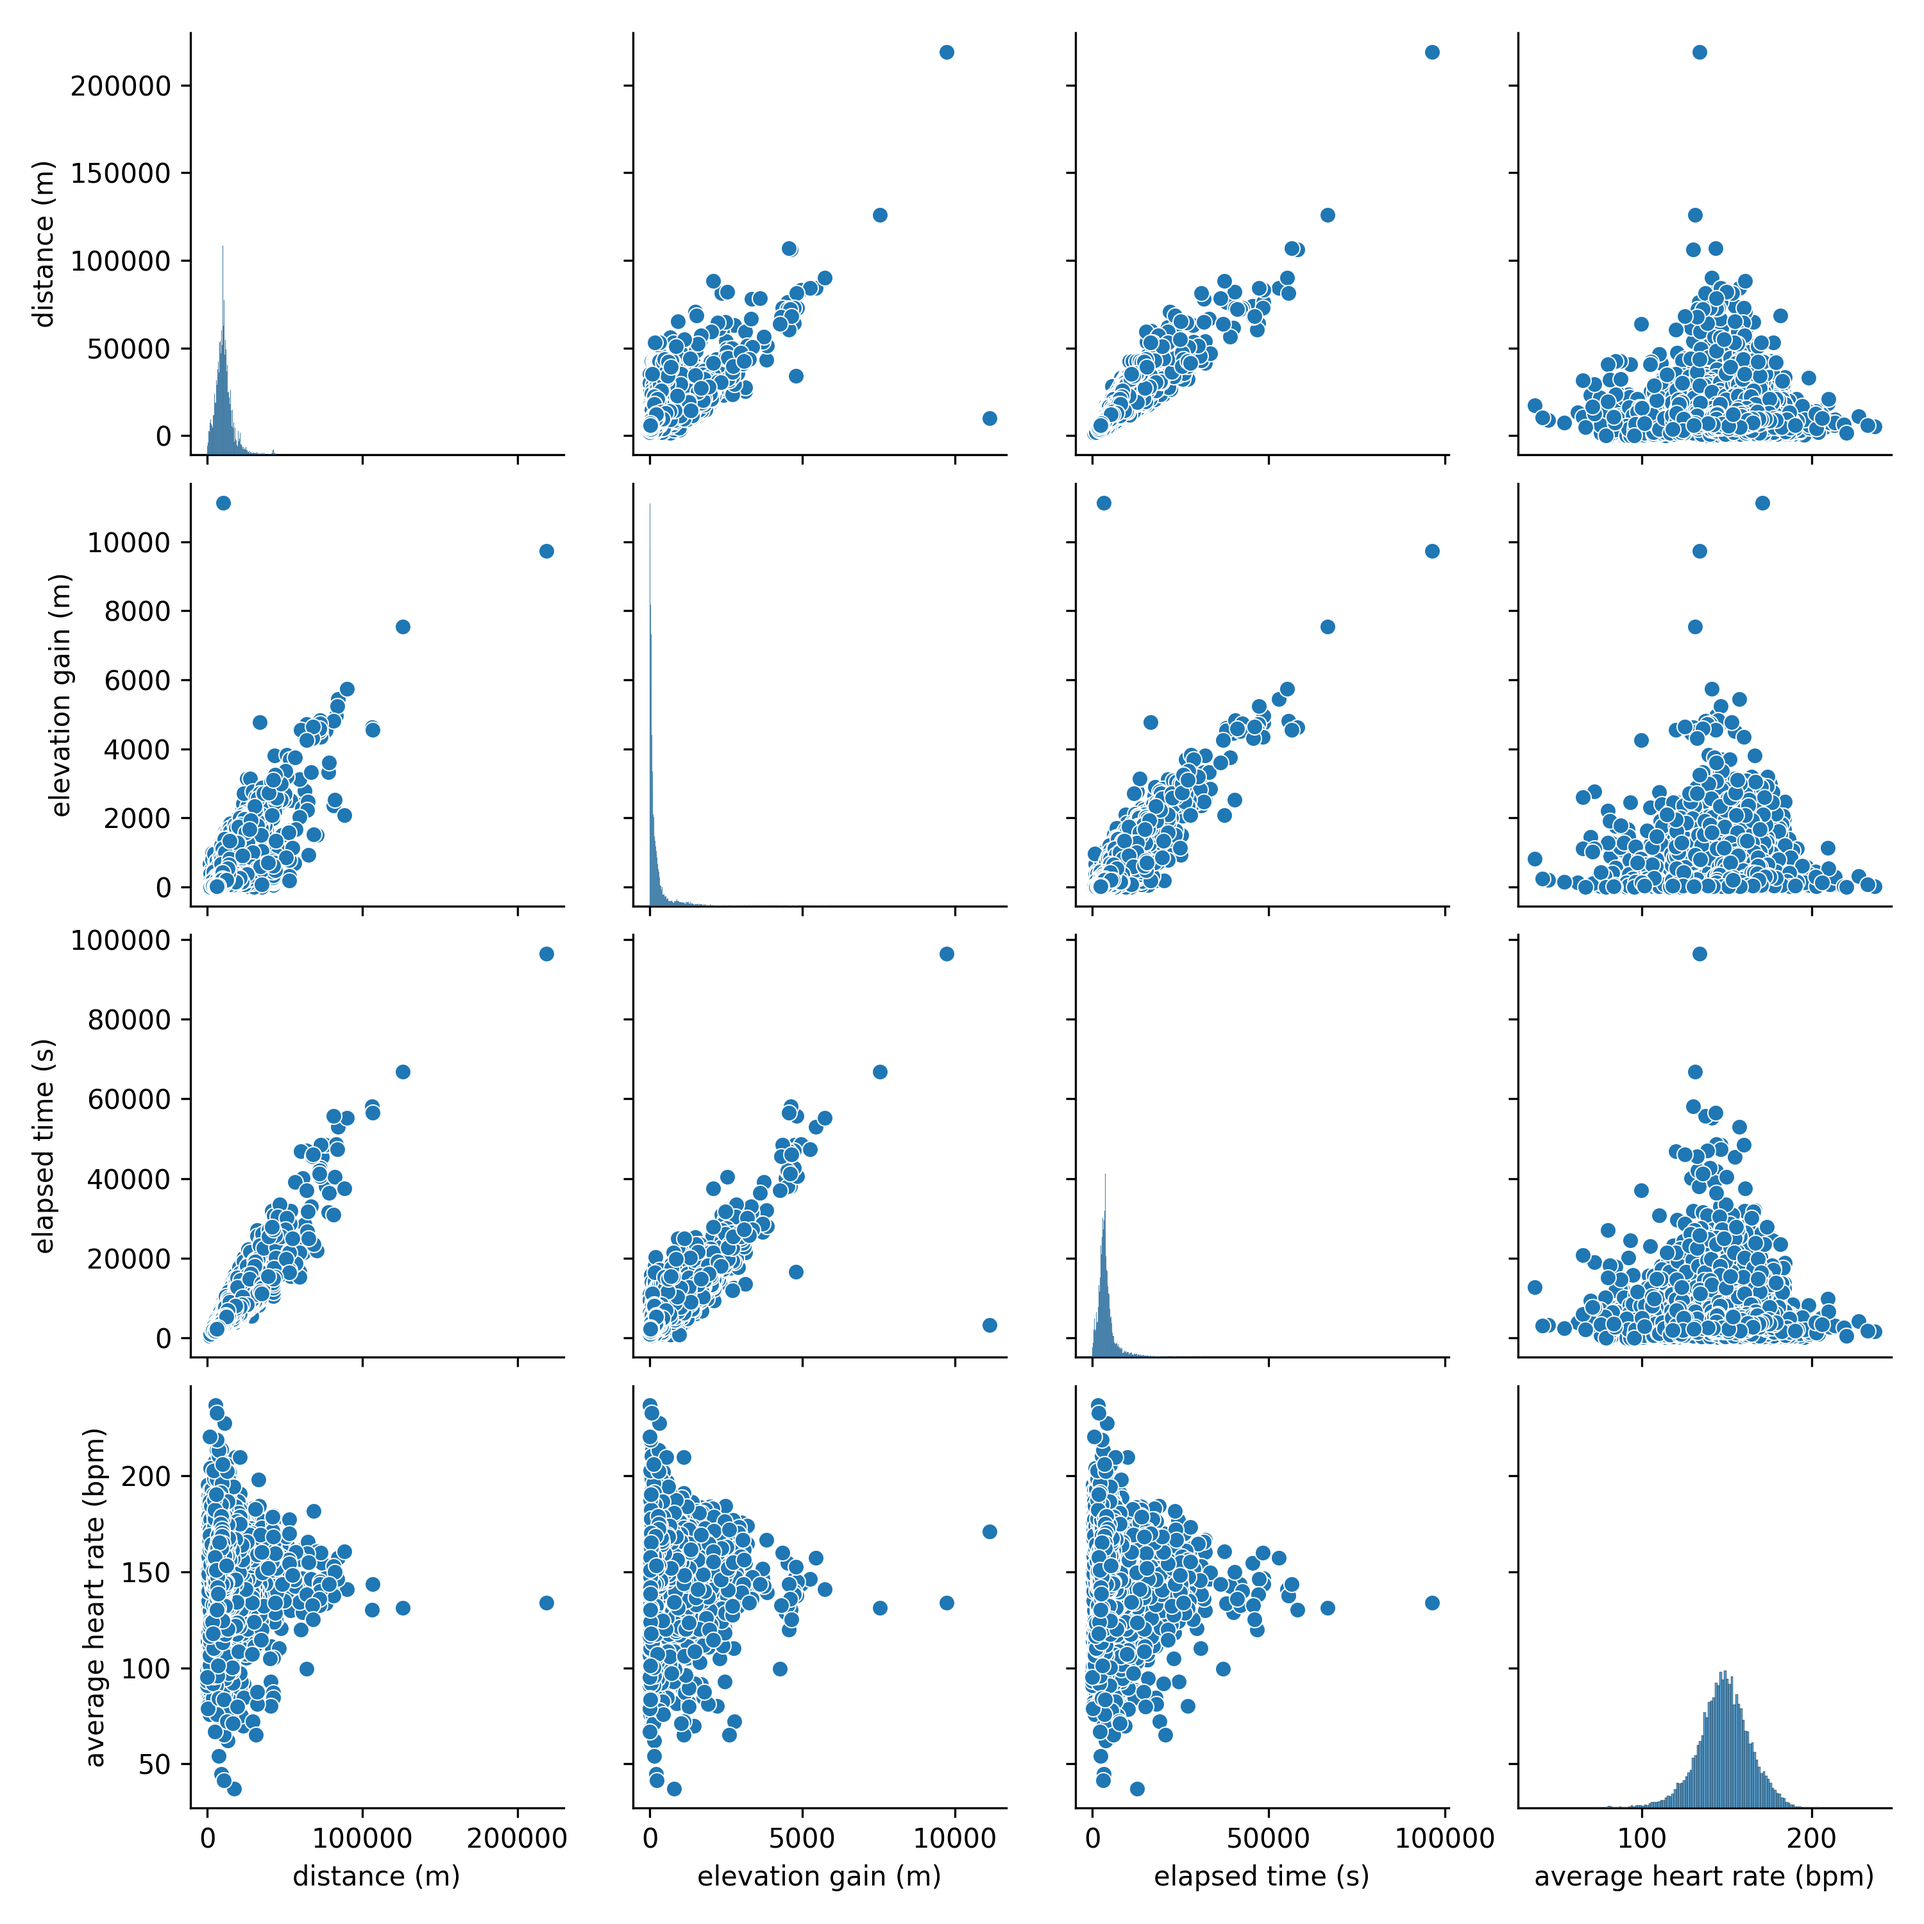
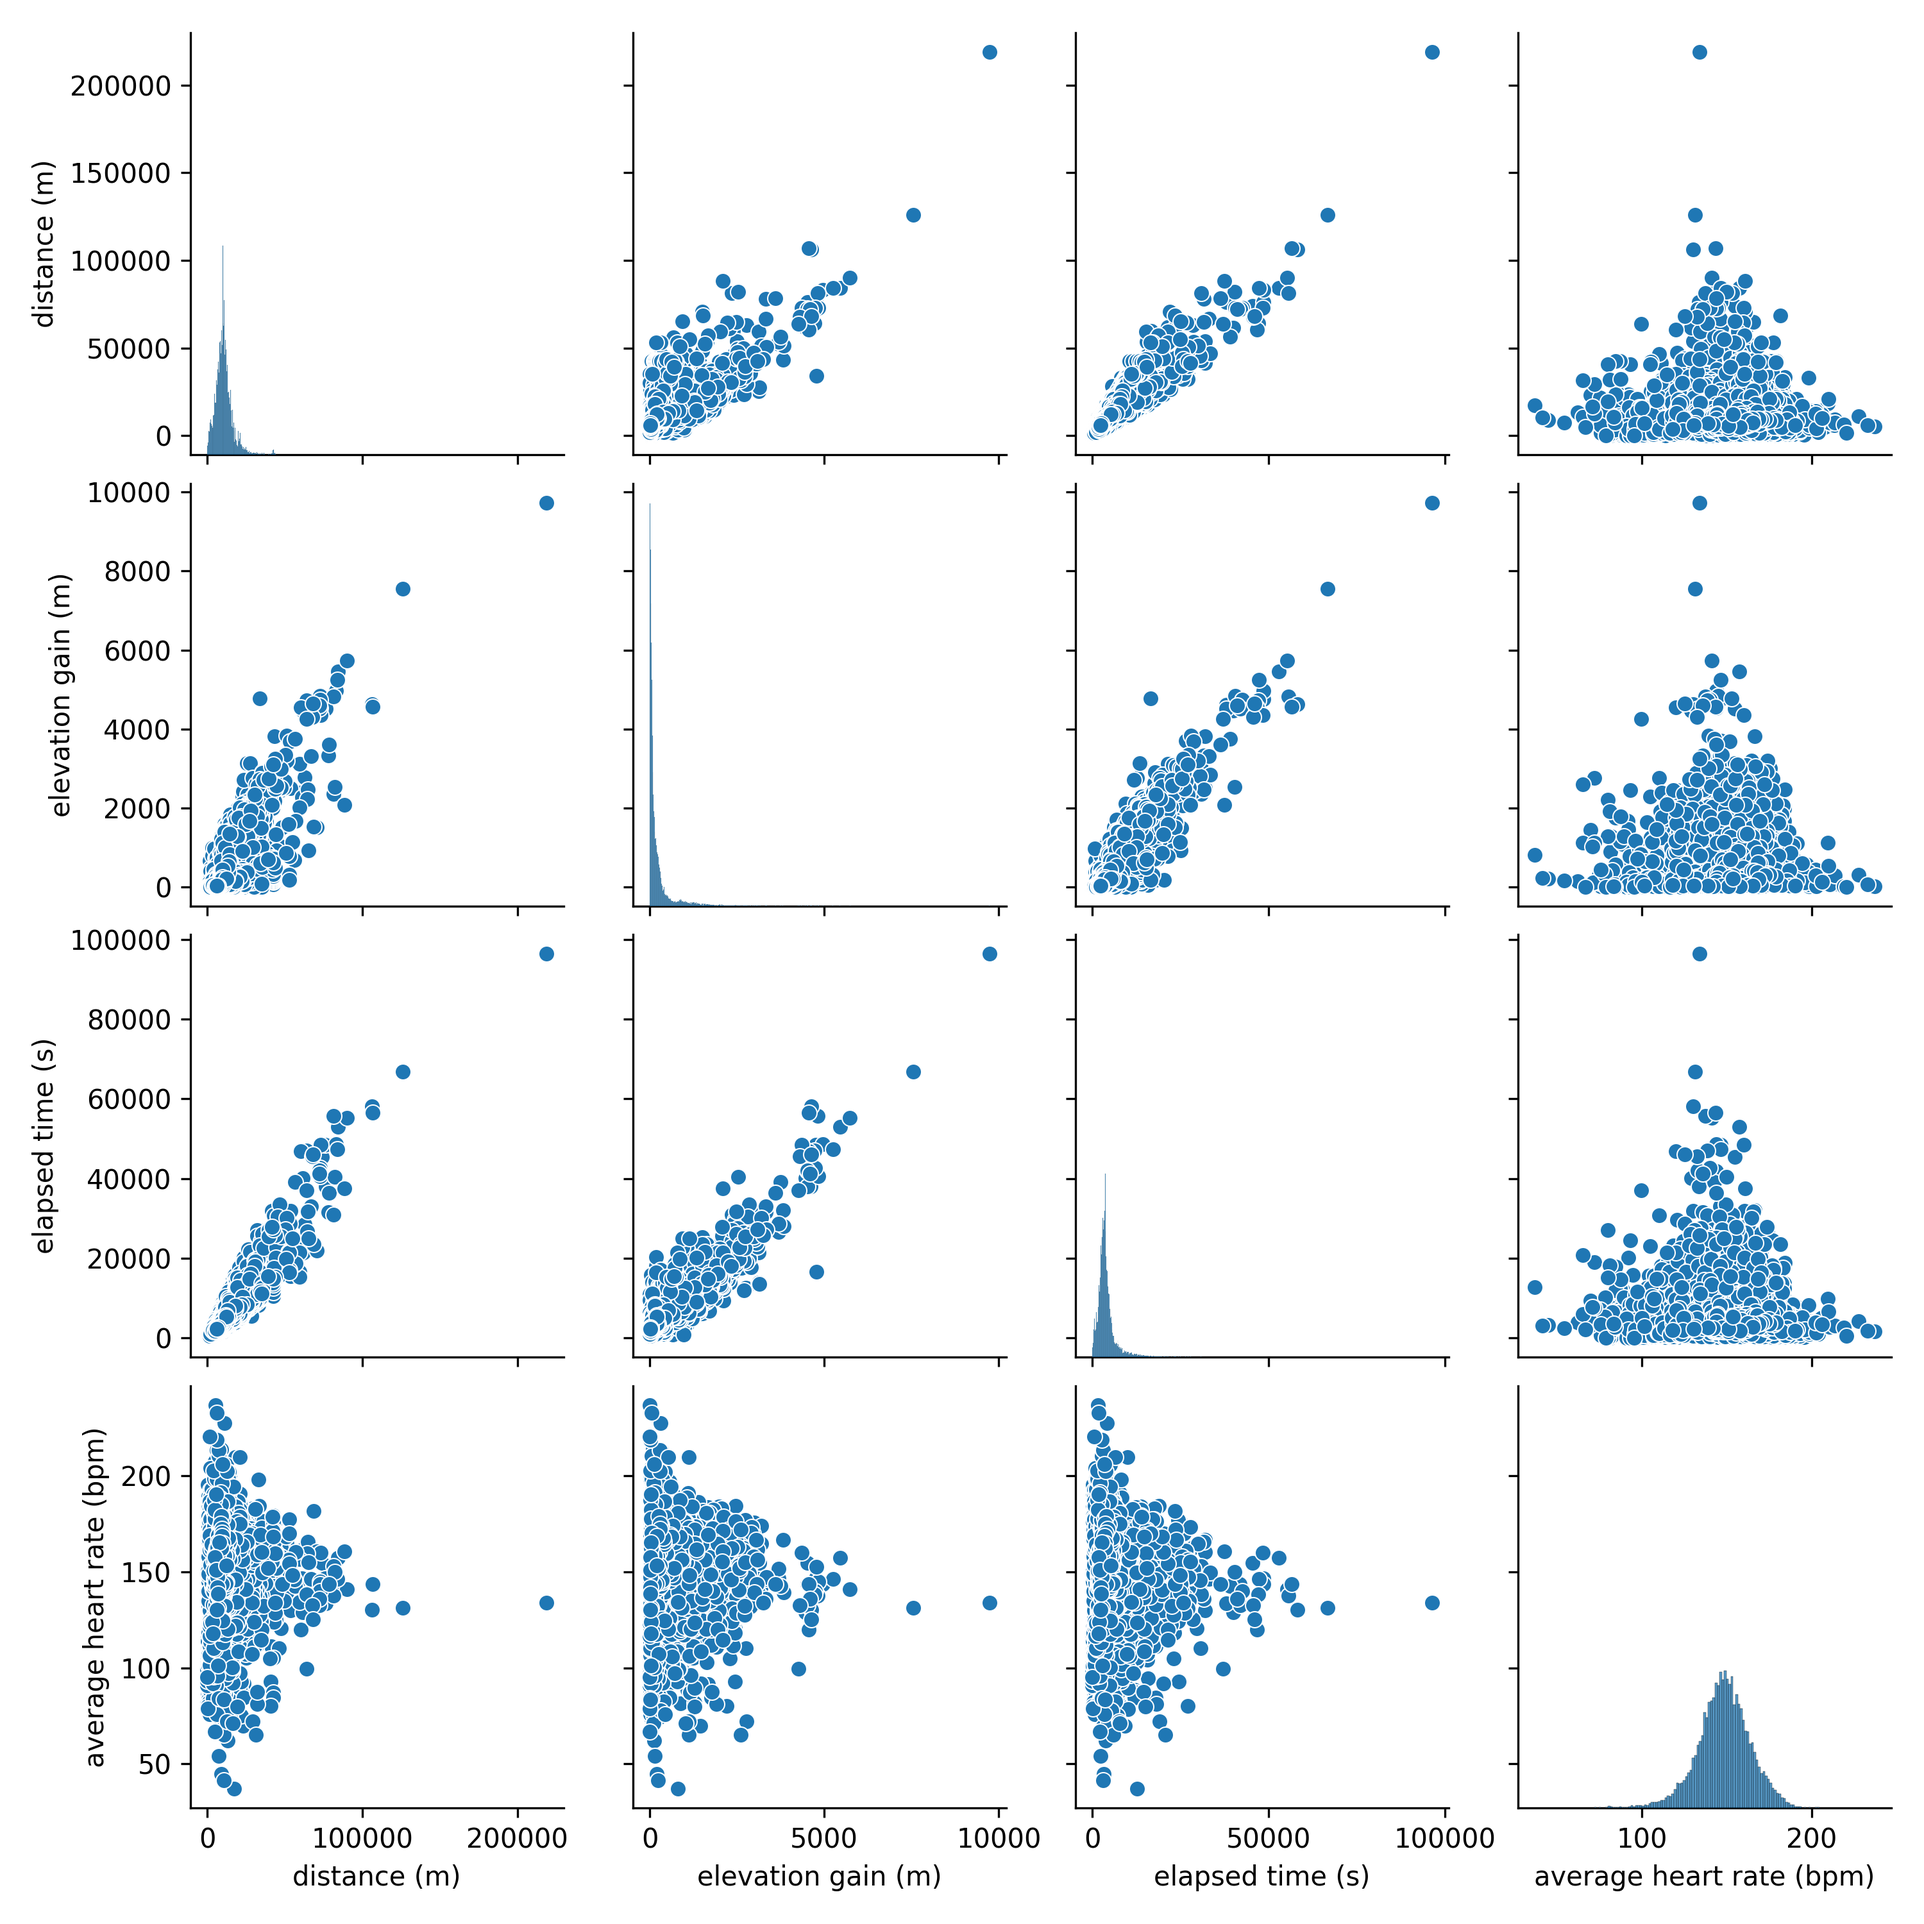
Refactored data handling, set up multimodallinearregression model

diff --git a/mlr_setup.py b/mlr_setup.py
@@ -1,0 +1,87 @@
+from datahandler import DataLoader, DataAnalysis, DataPreprocessor, DataVisualizer
+from sklearn.model_selection import train_test_split
+from sklearn.linear_model import LinearRegression
+from sklearn.metrics import mean_absolute_error, mean_squared_error, r2_score
+import matplotlib.pyplot as plt
+import pandas as pd
+import joblib
+
+# Main execution flow (EXAMPLE)
+if __name__ == "__main__":
+    # Load the data
+    data_loader = DataLoader('raw-data-kaggle.csv')
+    strava_data = data_loader.load_data()
+
+    data_preprocessor = DataPreprocessor(strava_data)
+    data_preprocessor.add_pace()
+    data_preprocessor.drop_invalid_rows()
+    processed_data = data_preprocessor.get_preprocessed_data()
+
+    data_analysis = DataAnalysis(processed_data)
+    data_analysis.display_head()
+    data_analysis.display_nunique_athletes()
+    data_analysis.display_dtypes()
+    data_analysis.describe_data()
+
+    # Visualize the data
+    data_visualizer = DataVisualizer(processed_data)
+    data_visualizer.pairplot('strava_pairplot_after.png', ['distance (m)', 'elevation gain (m)', 'elapsed time (s)', 'average heart rate (bpm)'])
+
+    # Features (X)
+    X = processed_data[['elevation gain (m)', 'distance (m)', 'average heart rate (bpm)']]
+    # Target (y)
+    y = processed_data[['elapsed time (s)']]
+
+    # Split the data into training and testing sets
+    x_train, x_test, y_train, y_test = train_test_split(X, y, test_size=0.2, random_state=42)
+
+    # Create and fit the Linear Regression model
+    mlr = LinearRegression()
+    mlr.fit(x_train, y_train)
+
+    # Make predictions
+    y_pred = mlr.predict(x_test)
+
+    # Calculate performance metrics
+    mae = mean_absolute_error(y_test, y_pred)
+    mse = mean_squared_error(y_test, y_pred)
+    r2 = r2_score(y_test, y_pred)
+
+    # Print the performance metrics
+    print(f"Mean Absolute Error (MAE): {mae:.2f}")
+    print(f"Mean Squared Error (MSE): {mse:.2f}")
+    print(f"R² Score: {r2:.2f}")
+
+    # Visualize Predictions vs Actual Values
+    plt.figure(figsize=(10, 6))
+    plt.scatter(y_test, y_pred, color='blue', label='Predicted vs Actual', alpha=0.6)
+    plt.plot([y_test.min(), y_test.max()], [y_test.min(), y_test.max()], color='red', linestyle='--', label='Ideal Fit (y=x)')
+    plt.xlabel('Actual Distance (m)')
+    plt.ylabel('Predicted Distance (m)')
+    plt.title('Actual vs Predicted Distance')
+    plt.grid()
+    plt.legend()
+    plt.savefig('mlr_prediction_vs_actial_values', dpi=300)
+
+    # Optional: Plotting Residuals
+    plt.figure(figsize=(10, 6))
+    residuals = y_test - y_pred
+    plt.scatter(y_pred, residuals, color='green', alpha=0.6)
+    plt.axhline(y=0, color='red', linestyle='--')
+    plt.xlabel('Predicted Distance (m)')
+    plt.ylabel('Residuals')
+    plt.title('Residuals Plot')
+    plt.grid()
+    plt.savefig('mlr_residuals', dpi=300)
+
+    # Save the model for later use
+    joblib.dump(mlr, 'linear_regression_model.pkl')
+
+    # Load the previously saved model
+    mlr_loaded = joblib.load('linear_regression_model.pkl')
+
+   # Make a prediction using a DataFrame
+    new_data = pd.DataFrame([[100, 2000, 150]], columns=['elevation gain (m)', 'distance (m)', 'average heart rate (bpm)'])
+    y_pred1 = mlr.predict(new_data)
+    print(f"Predicted Elapsed Time for [100, 2000, 150]: {y_pred1[0][0]:.2f} seconds")
+

diff --git a/datahandler.py b/datahandler.py
@@ -1,0 +1,66 @@
+import pandas as pd
+import matplotlib.pyplot as plt
+import seaborn as sns
+import numpy as np
+
+# Class to handle loading of the dataset
+class DataLoader:
+    def __init__(self, file_path):
+        self.file_path = file_path
+        self.data = None
+
+    def load_data(self):
+        self.data = pd.read_csv(self.file_path)
+        return self.data
+
+# Class to preprocess the data
+class DataPreprocessor:
+    def __init__(self, data):
+        self.data = data.copy()
+
+    def add_pace(self):
+        # Add the 'pace (min/km)' feature to the dataset
+        self.data['pace (min/km)'] = (self.data['elapsed time (s)'] / 60) / (self.data['distance (m)'] * 0.001)
+    
+    def drop_invalid_rows(self):
+        # Filter out rows based on conditions
+        self.data = self.data[
+            (self.data['elapsed time (s)'] < 180000) & 
+            (self.data['elapsed time (s)'] > 0) & 
+            (self.data['distance (m)'] > 0) & 
+            (self.data['pace (min/km)'] >= 2.56333) & 
+            (self.data['pace (min/km)'] <= 15) & 
+            (self.data['average heart rate (bpm)'].notnull()) & 
+            (self.data['average heart rate (bpm)'] > 0) &
+            (self.data['elevation gain (m)'] < 11128.0)
+        ]
+    
+    def get_preprocessed_data(self):
+        return self.data
+
+# Class to visualize the data
+class DataVisualizer:
+    def __init__(self, data):
+        self.data = data
+    
+    def pairplot(self, save_path, variables):
+        # Create a pairplot using seaborn
+        sns.pairplot(self.data, vars=variables)
+        plt.savefig(save_path, dpi=300)
+
+# Class to perform basic analysis and statistics
+class DataAnalysis:
+    def __init__(self, data):
+        self.data = data
+    
+    def display_head(self):
+        print(self.data.head())
+    
+    def display_nunique_athletes(self):
+        print(f"Number of unique athletes: {self.data.athlete.nunique()}")
+    
+    def display_dtypes(self):
+        print(self.data.dtypes)
+    
+    def describe_data(self):
+        print(self.data.describe())

diff --git a/mlr_predictor.py b/mlr_predictor.py
@@ -1,0 +1,10 @@
+import pandas as pd
+import joblib
+
+# Load the previously saved model
+mlr_loaded = joblib.load('linear_regression_model.pkl')
+
+# Make a prediction using a DataFrame
+new_data = pd.DataFrame([[14, 10700, 150]], columns=['elevation gain (m)', 'distance (m)', 'average heart rate (bpm)'])
+y_pred1 = mlr_loaded.predict(new_data)
+print(f"Predicted Elapsed Time for: {y_pred1[0][0]:.2f} seconds")
